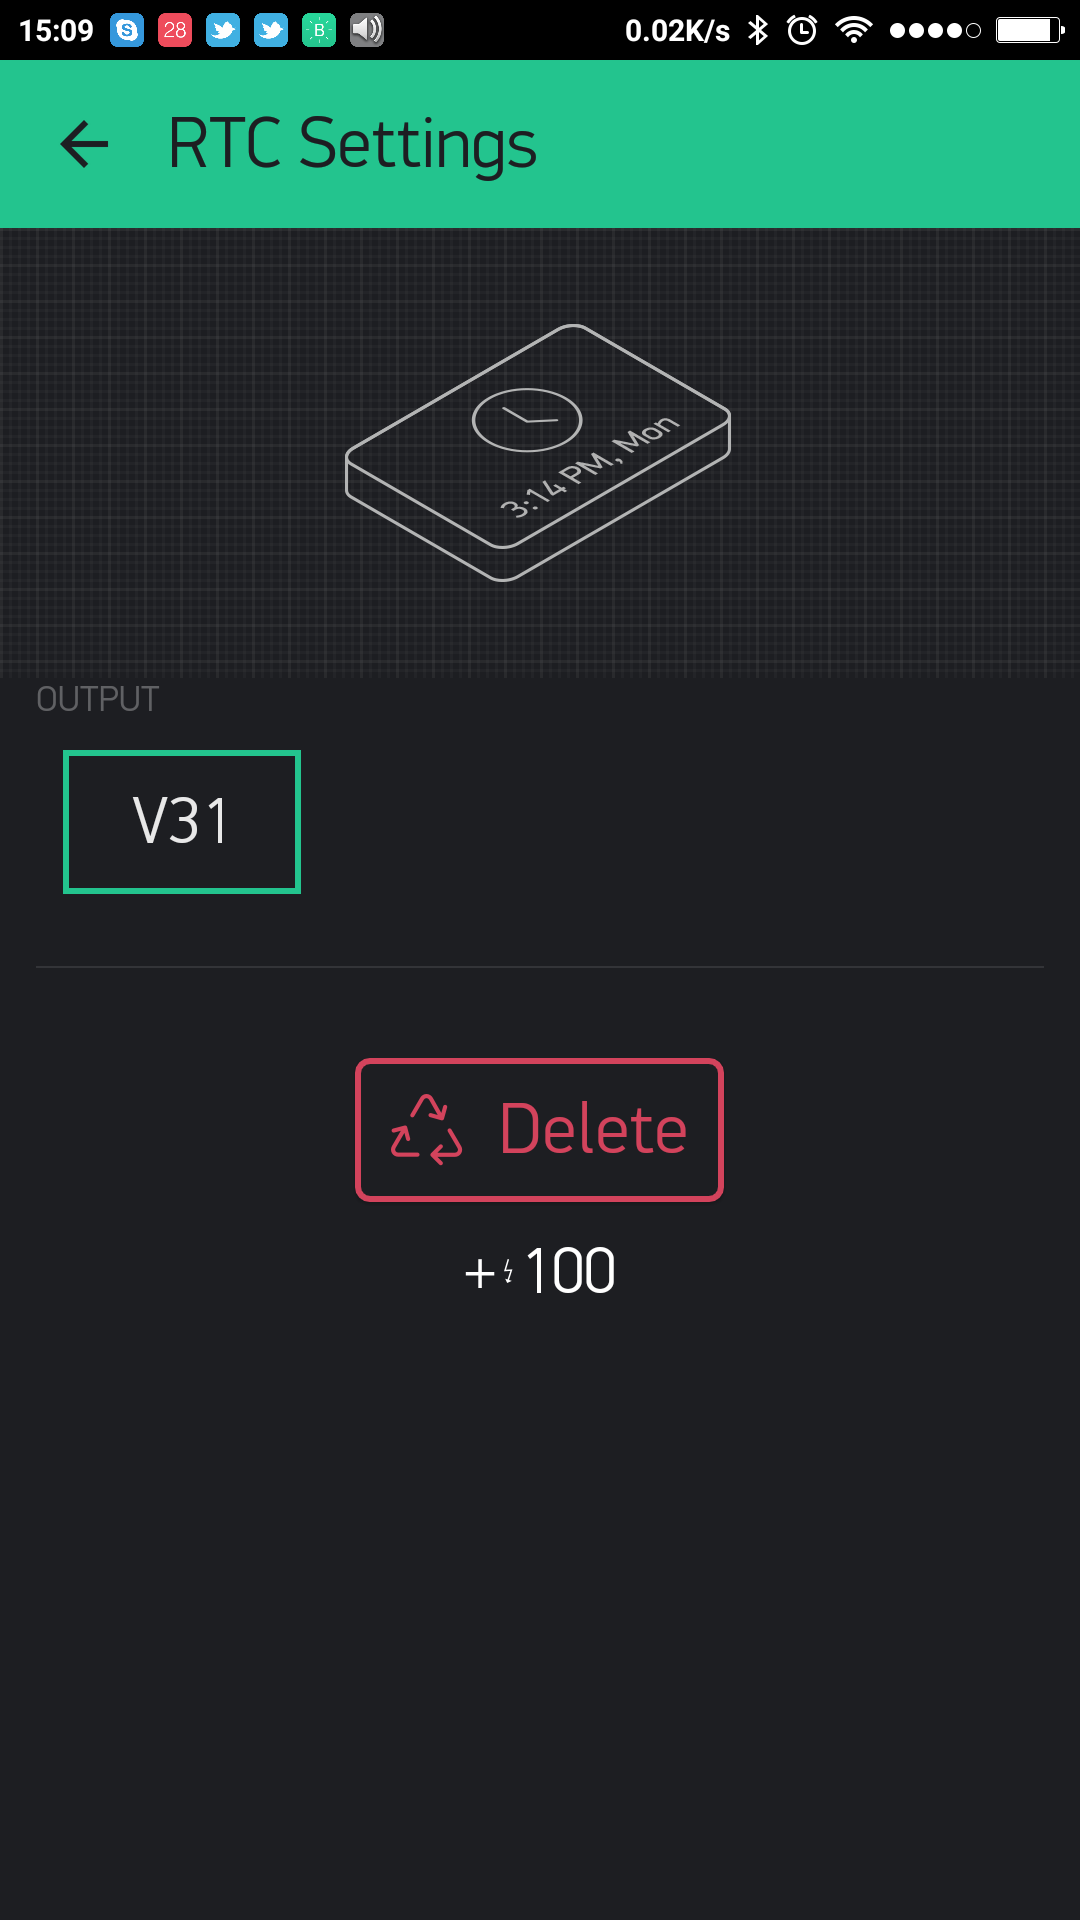
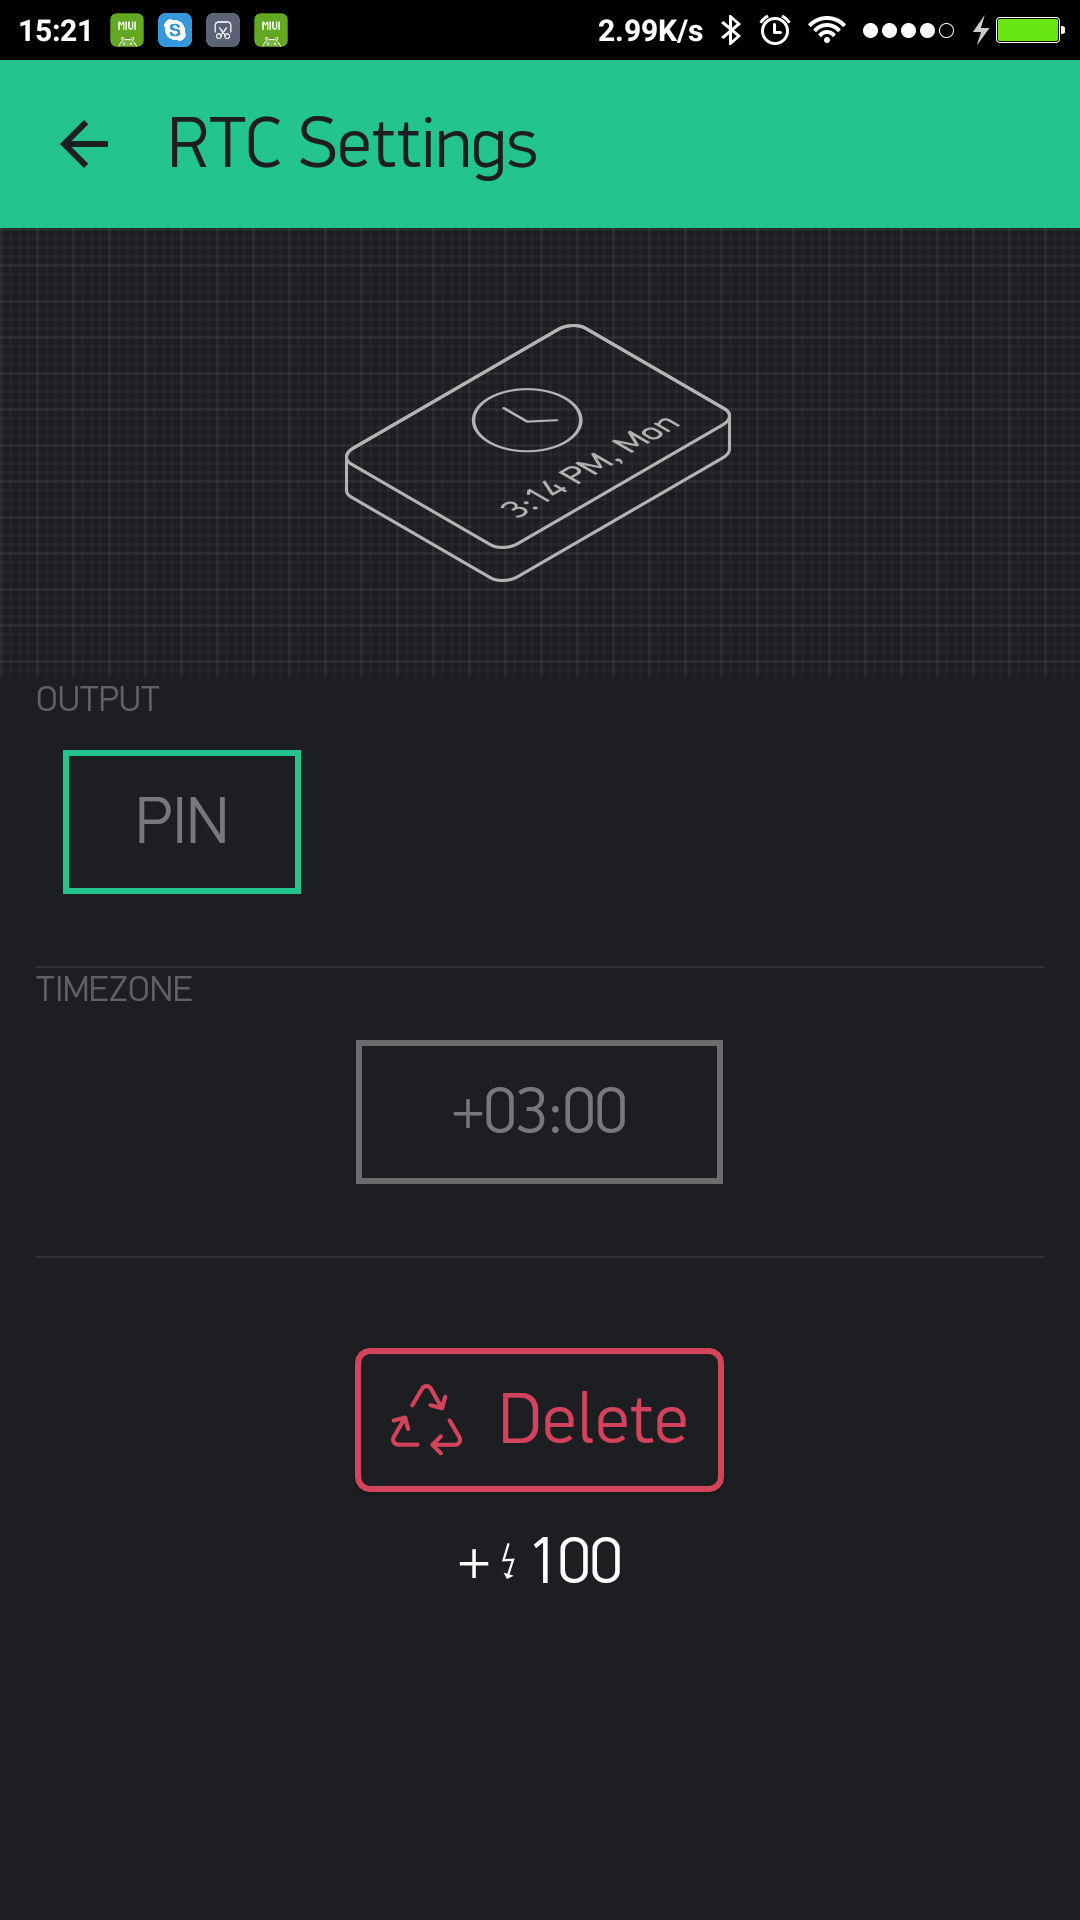
new widgets

diff --git a/Widgets.md b/Widgets.md
@@ -114,30 +114,6 @@ When it's OFF, Joystick handle will not return back to center position. It will 
 
 **Sketch:** [JoystickTwoAxis](https://github.com/blynkkk/blynk-library/blob/master/examples/Widgets/JoystickTwoAxis/JoystickTwoAxis.ino#L24)
 
-### Menu
-Menu widget allows you to send command to your hardware based on selection you made on UI. Menu
-sends index of element you selected and not label string. Sending index is starts from 1.
-It works same way as usual ComboBox element. 
-
-<img src="images/menu_edit.png" style="width: 200px; height:360px"/>
-
-Example code:
-```
-switch (param.asInt())
-  {
-    case 1: { // Item 1
-      Serial.println("Item 1 selected");
-      break;
-    }
-    case 2: { // Item 2
-      Serial.println("Item 2 selected");
-      break;
-    }    
-  }
-```
-
-**Sketch:** [Menu](https://github.com/blynkkk/blynk-library/blob/master/examples/Widgets/Menu/Menu.ino)
-
 ##Displays
 ### Value Display
 Displays incoming data from your sensors or Virtual Pins.
@@ -145,6 +121,16 @@ Displays incoming data from your sensors or Virtual Pins.
 <img src="images/display.png" style="width: 77px; height:80px"/> 
 
 <img src="images/display_edit.png" style="width: 200px; height:360px"/>
+
+**Sketch:** [BlynkBlink](https://github.com/blynkkk/blynk-library/blob/master/examples/GettingStarted/BlynkBlink/BlynkBlink.ino#L48)
+
+### Labeled Value
+Displays incoming data from your sensors or Virtual Pins. It is better version of Value Display as it has a formatting 
+string, so you could format incoming value to any string you want.
+
+<img src="images/display.png" style="width: 77px; height:80px"/> 
+
+<img src="images/labeled_value_edit.png" style="width: 200px; height:360px"/>
 
 **Sketch:** [BlynkBlink](https://github.com/blynkkk/blynk-library/blob/master/examples/GettingStarted/BlynkBlink/BlynkBlink.ino#L48)
 
@@ -317,6 +303,30 @@ Limitations :
 **Sketch:** [PushNotification](https://github.com/blynkkk/blynk-library/blob/master/examples/Widgets/PushNotification/PushNotification.ino#L26)
 
 ## Other
+### Menu
+Menu widget allows you to send command to your hardware based on selection you made on UI. Menu
+sends index of element you selected and not label string. Sending index is starts from 1.
+It works same way as usual ComboBox element. 
+
+<img src="images/menu_edit.png" style="width: 200px; height:360px"/>
+
+Example code:
+```
+switch (param.asInt())
+  {
+    case 1: { // Item 1
+      Serial.println("Item 1 selected");
+      break;
+    }
+    case 2: { // Item 2
+      Serial.println("Item 2 selected");
+      break;
+    }    
+  }
+```
+
+**Sketch:** [Menu](https://github.com/blynkkk/blynk-library/blob/master/examples/Widgets/Menu/Menu.ino)
+
 ### Bridge
 
 Bridge can be used for Device-to-Device communication (no app. involved). You can send digital/analog/virtual write commands from one device to another, knowing it's auth token.
@@ -355,7 +365,7 @@ Also have in mind ```bridge.virtualWrite``` doesn't send any value to mobile app
 
 ### RTC
 
-Realtime clock allows you to get time from server.
+Realtime clock allows you to get time from server. You can preselect any timezone on UI to get time on hardware in required locale.
 
 <img src="images/rtc_edit.png" style="width: 200px; height:360px"/>
 
